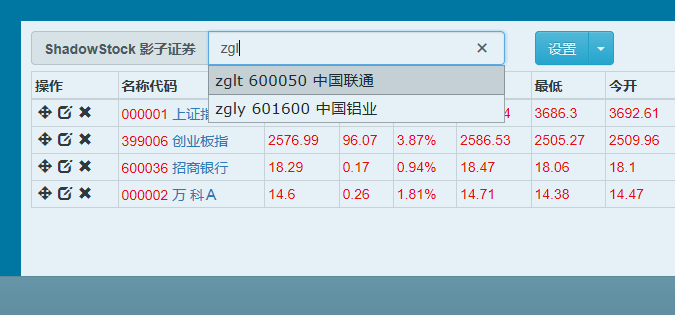
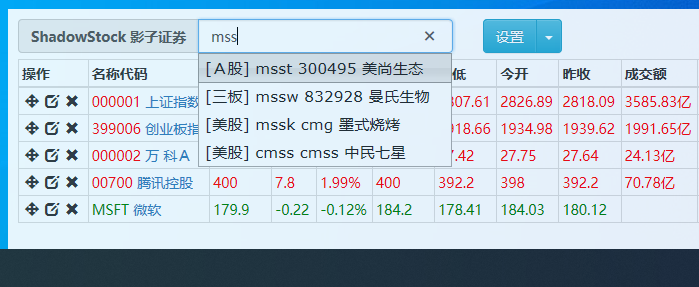
Update README

diff --git a/ShadowStock/stock/scripts/shadowstock.js b/ShadowStock/stock/scripts/shadowstock.js
@@ -1,7 +1,7 @@
 (function (window, document, undefined) {
     var _shadowStock = {},
         _appId = 'ShadowStock_SH_SZ',
-        _appName = 'ShadowStock 影子证券 - 沪深创业板',
+        _appName = 'ShadowStock 影子证券',
         _appVersion = '2.1',
         _appUrl = 'https://github.com/heddaz/shadowin',
 
@@ -889,7 +889,7 @@
             if (_elements.aboutButton) {
                 _elements.aboutButton.click(function () {
                     if (confirm(_formatString('谢谢您使用 {0} ！\n\n作者：{1}\n项目：{2}\nQQ：{3}\n\n(尊重开源、尊重分享，再发布请保留以上信息，谢谢)',
-                        _appName, 'HEDDAZ (大飞飞)', _appUrl, '9812152'))) {
+                        _appName, 'HEDDAZ(大飞飞)', _appUrl, '9812152'))) {
                         window.open(_appUrl);
                 }
                 });

diff --git a/ShadowStock/stock/index.html b/ShadowStock/stock/index.html
@@ -3,7 +3,7 @@
 <head>
     <meta http-equiv="X-UA-Compatible" content="IE=edge" />
     <meta charset="utf-8" />
-    <title>ShadowStock 影子证券 - 沪深创业板</title>
+    <title>ShadowStock 影子证券</title>
     <meta name="description" content="简洁精悍的上班族隐蔽看股工具，链接新浪财经实时数据源，支持自选股、实时价格刷新、持仓盈亏统计，更支持单元格高亮着色；加上《Shadowin 影窗浏览器》提供的半透明窗体和老板键特性，更是神不知鬼不觉" />
     <link href="favicon.ico" rel="shortcut icon" />
     <link href="content/bootstrap.css" rel="stylesheet" />

diff --git a/README.md b/README.md
@@ -25,7 +25,7 @@ ShadowStock 影子证券，是上班看股、个性化盯盘神器
   
 ----------------------------------------------------------------------------------------------
 
-ShadowStock 影子证券 - 沪深创业板 功能介绍
+ShadowStock 影子证券功能介绍
 -----------------------------------------
 **地址：**  
 > http://stock.plusii.com/  
@@ -34,7 +34,7 @@ ShadowStock 影子证券 - 沪深创业板 功能介绍
 * 微型界面和透明效果 - 你值得拥有
 ![微型界面和透明效果](docs/demo-main.png)  
   
-* 智能选股列表 - 创建激情投资组合
+* 智能选股列表 - 创建激情投资组合（沪深、基金、新三板、债券、港股、美股）
 ![智能选股列表](docs/demo-autocomplete.png)  
   
 * 即时拖动排序 - 把握视觉主次
